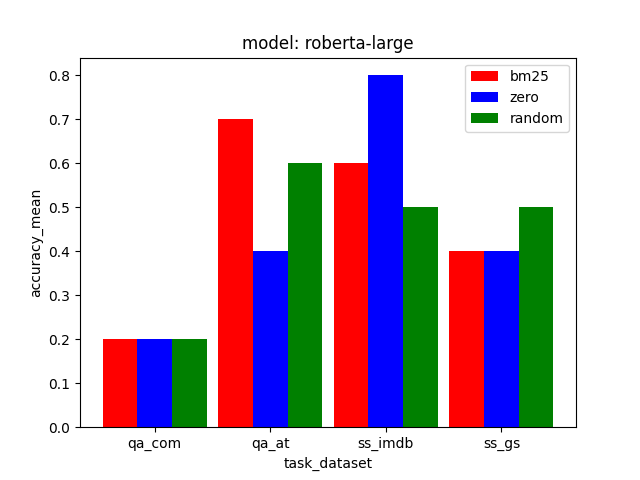
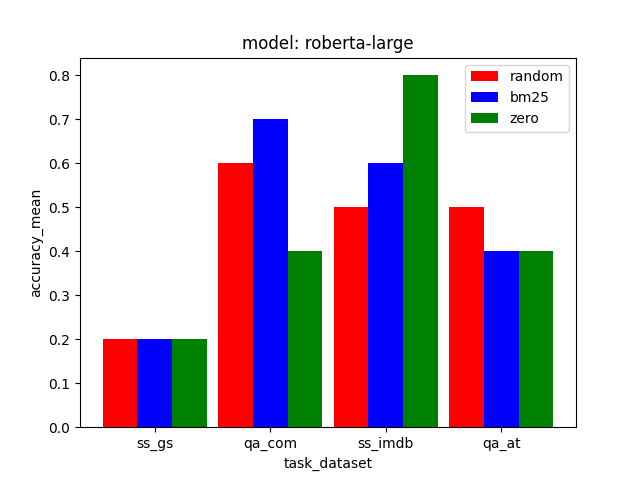
small bug fix

diff --git a/test_heuristic.py b/test_heuristic.py
@@ -187,13 +187,13 @@ def run_experiments():
 
 
 def bar_plot_results(results,  title_column1: str, x_axis : str , y_axis : str, z_axis : str, width=0.25, show= True, save_path=None):
-    unique_t1 = set(map(str,results[title_column1]))
+    unique_t1 = results[title_column1].unique()
     # Tasks
-    unique_x_axis = set(map(str,results[x_axis]))
+    unique_x_axis = results[x_axis].unique()
     #acc
-    unique_y_axis = set(map(str,results[y_axis]))
+    unique_y_axis = results[y_axis].unique()
     # Model
-    unique_z_axis = set(map(str,results[z_axis]))
+    unique_z_axis = results[z_axis].unique()
 
     print('t1-axis: ', unique_t1)
     print('x-axis: ', unique_x_axis)
@@ -238,15 +238,15 @@ def bar_plot_results(results,  title_column1: str, x_axis : str , y_axis : str, 
 
 
 def line_plot_results(results,  title_column1, title_column2, title_column3, x_axis : str , y_axis : str, z_axis : str, save_path=None):
-    unique_t1 = set(map(str,results[title_column1]))
-    unique_t2 = set(map(str,results[title_column2]))
+    unique_t1 = results[title_column1].unique()
+    unique_t2 = results[title_column2].unique()
     # unique_t3 = set(map(str,results[title_column3]))
     # Test_size
-    unique_x_axis = set(results[x_axis])
+    unique_x_axis = results[x_axis].unique()
     # acc
-    unique_y_axis = set(results[y_axis])
+    unique_y_axis = results[y_axis].unique()
     # retriever
-    unique_z_axis = set(results[z_axis])
+    unique_z_axis = results[z_axis].unique()
 
     print('t1-axis: ', unique_t1)
     print('x-axis: ', unique_x_axis)
@@ -282,10 +282,10 @@ def line_plot_results(results,  title_column1, title_column2, title_column3, x_a
                 plt.title(title_column1 +": " + str(t1) + ", " + title_column2 +  ": " + str(t2) ) #+ " and " + title_column3+  ": " + str(t3) )
                 
                 plt.legend(unique_z_axis )
-                plt.show()
+                
                 if save_path is not None:
                             plt.savefig(save_path + 'lineplot_' + t1 + '_' + t2 + '_'+ x_axis + '_' + z_axis + '.png')
-
+                plt.show()
                 
 
 def main(cmd_args):
